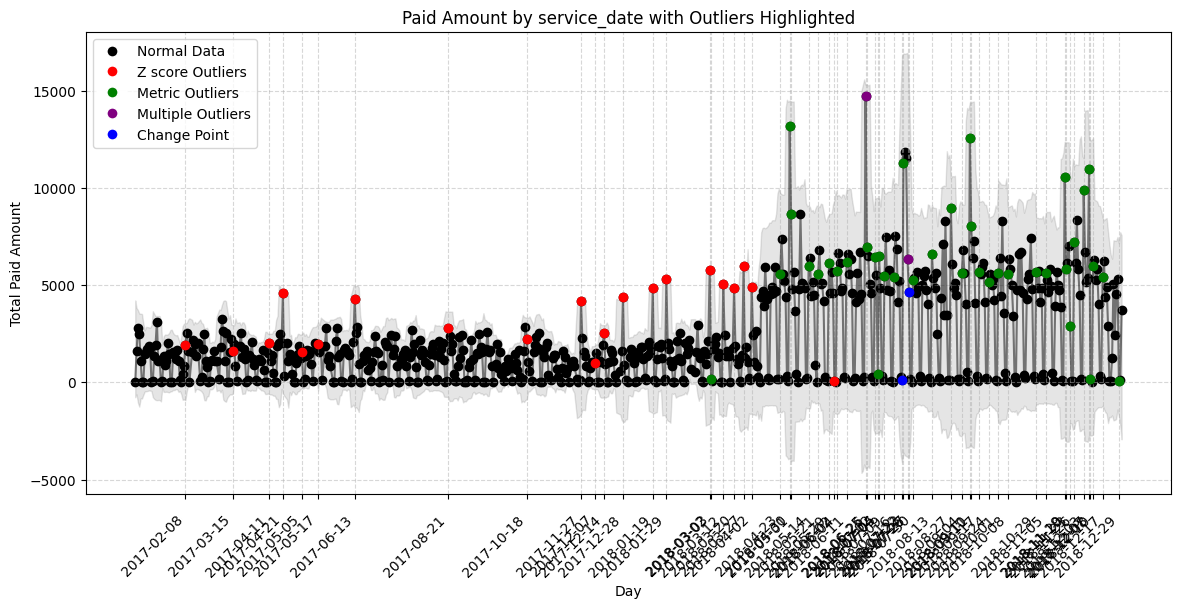
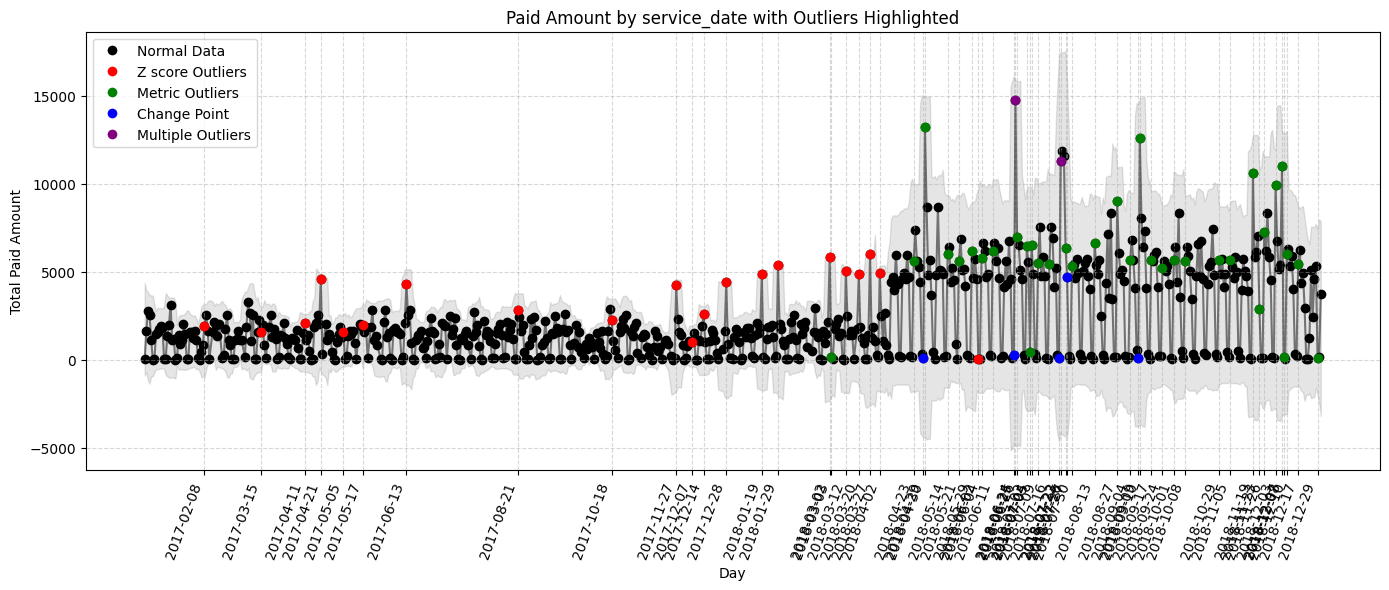
ready for presenting

diff --git a/anomalies.py b/anomalies.py
@@ -29,6 +29,33 @@ pivot_table_df = df.select("betos_cd", "betos_desc", "pos_cd", "pos_desc", "spec
 
 
 
+def preprocess_data():
+    """
+    Perform preprocessing checks on the dataset:
+    - Check for null values.
+    - Check data types.
+    - Save preprocessing results in the 'preprocessing' folder.
+    """
+
+    # Ensure preprocessing folder exists
+    os.makedirs("preprocessing", exist_ok=True)
+
+    # Check for null values
+    null_counts = df.select([spark_sum(col(c).isNull().cast("int")).alias(c) for c in df.columns]).collect()[0].asDict()
+    null_counts_df = pd.DataFrame(list(null_counts.items()), columns=["Column", "Null Count"])
+    
+    # Check data types
+    dtypes = {col_name: dtype for col_name, dtype in df.dtypes}
+    dtypes_df = pd.DataFrame(list(dtypes.items()), columns=["Column", "Data Type"])
+
+    # Save results to CSV files
+    null_counts_df.to_csv("preprocessing/null_counts.csv", index=False)
+    dtypes_df.to_csv("preprocessing/data_types.csv", index=False)
+
+    print("Preprocessing completed. Null counts and data types saved in 'preprocessing' folder.")
+
+
+
 
 def detect_outliers(group_values=None):
     """
@@ -99,12 +126,12 @@ def detect_outliers(group_values=None):
     )
 
     weekly_totals = weekly_totals.withColumn(
-    "mean_next_3",
-    mean("total_metric").over(window_spec.rowsBetween(1, 3))
+    "mean_next_2",
+    mean("total_metric").over(window_spec.rowsBetween(1, 2))
     )
     weekly_totals = weekly_totals.withColumn(
-        "mean_prev_3",
-        mean("total_metric").over(window_spec.rowsBetween(-3, -1))
+        "mean_prev_2",
+        mean("total_metric").over(window_spec.rowsBetween(-2, -1))
     )
 
 
@@ -120,19 +147,19 @@ def detect_outliers(group_values=None):
                                                                                                                                                
     # Anomaly: If total metric is double or half of last week, with a difference of at least 10
     weekly_totals = weekly_totals.withColumn(
-    "mean_next_3",
-    mean("total_metric").over(window_spec.rowsBetween(1, 3))
+    "mean_next_2",
+    mean("total_metric").over(window_spec.rowsBetween(1, 2))
     )
     weekly_totals = weekly_totals.withColumn(
-        "mean_prev_3",
-        mean("total_metric").over(window_spec.rowsBetween(-3, -1))
+        "mean_prev_2",
+        mean("total_metric").over(window_spec.rowsBetween(-2, -1))
     )
     weekly_totals = weekly_totals.withColumn(
     "change_point",
-    (((col("mean_next_3") >= 2 * col("mean_prev_3")) |
-      (col("mean_prev_3") >= 2 * col("mean_next_3"))) & 
-     (spark_abs(col("mean_next_3") - col("mean_prev_3")) > 8000)) & 
-    col("mean_prev_3").isNotNull() & col("mean_next_3").isNotNull()
+    (((col("mean_next_2") >= 2 * col("mean_prev_2")) |
+      (col("mean_prev_2") >= 2 * col("mean_next_2"))) & 
+     (spark_abs(col("mean_next_2") - col("mean_prev_2")) > 8000)) & 
+    col("mean_prev_2").isNotNull() & col("mean_next_2").isNotNull()
 )
     # Final outlier column (if any conditions are met)
     weekly_totals = weekly_totals.withColumn(
@@ -185,19 +212,19 @@ def compute_anomaly_counts():
         )
         
         df_anomalies = df_anomalies.withColumn(
-        "mean_next_3",
+        "mean_next_2",
         mean("total_metric").over(window_spec.rowsBetween(1, 3))
         )
         df_anomalies = df_anomalies.withColumn(
-            "mean_prev_3",
+            "mean_prev_2",
             mean("total_metric").over(window_spec.rowsBetween(-3, -1))
         )
         df_anomalies = df_anomalies.withColumn(
         "change_point",
-        (((col("mean_next_3") >= 2 * col("mean_prev_3")) |
-        (col("mean_prev_3") >= 2 * col("mean_next_3"))) & 
-        (spark_abs(col("mean_next_3") - col("mean_prev_3")) > 8000)) & 
-        col("mean_prev_3").isNotNull() & col("mean_next_3").isNotNull()
+        (((col("mean_next_2") >= 2 * col("mean_prev_2")) |
+        (col("mean_prev_2") >= 2 * col("mean_next_2"))) & 
+        (spark_abs(col("mean_next_2") - col("mean_prev_2")) > 8000)) & 
+        col("mean_prev_2").isNotNull() & col("mean_next_2").isNotNull()
     )
         
         df_anomalies = df_anomalies.withColumn(
@@ -218,8 +245,8 @@ def compute_anomaly_counts():
 
 
 def make_graph(result_df_pd, filtered_summary):
-    result_df_pd['lower_bound'] = result_df_pd['rolling_mean'] - (2.0 * result_df_pd['rolling_std'])
-    result_df_pd['upper_bound'] = result_df_pd['rolling_mean'] + (2.0 * result_df_pd['rolling_std'])
+    result_df_pd['lower_bound'] = result_df_pd['rolling_mean'] - (2.1 * result_df_pd['rolling_std'])
+    result_df_pd['upper_bound'] = result_df_pd['rolling_mean'] + (2.1 * result_df_pd['rolling_std'])
 
     # Initialize figure
     plt.figure(figsize=(14, 6))
@@ -267,7 +294,7 @@ def make_graph(result_df_pd, filtered_summary):
     # Improve X-axis readability by only labeling anomalous weeks
     outlier_ticks = list(filtered_summary.keys())
     
-    plt.xticks(outlier_ticks, rotation=45, ha='right')  # Show only weeks with anomalies
+    plt.xticks(outlier_ticks, rotation=70, ha='right')  # Show only weeks with anomalies
 
     if "week" in time_variable:
         plt.xlabel("Week")
@@ -277,15 +304,9 @@ def make_graph(result_df_pd, filtered_summary):
     plt.title(f"Paid Amount by {time_variable} with Outliers Highlighted")
     plt.legend(handles=legend_handles)
     plt.grid(True, linestyle="--", alpha=0.5)
-
+    plt.tight_layout()
     # Save the plot
     plt.savefig(f"./{time_variable}/outliers.png", bbox_inches='tight')
-
-
-
-
-
-
 
 
 def main():
@@ -294,11 +315,12 @@ def main():
     creates a report indicating the anomalous weeks and why they were flagged
     """
 
+    preprocess_data()
+
     if not test_variables:
         print("No test variables found in config.yml. Exiting.")
         return
     
-    #testing out compute_anomaly_counts():
     anomaly_counts_dict = compute_anomaly_counts()
     
     top_anomalous_values = {
@@ -308,7 +330,6 @@ def main():
     
     print("Top single anomalous values:",top_anomalous_values)
 
-    # Dictionary to hold report data
     outlier_summary = {}
 
     # Generate all possible groupings of the most anomalous values
@@ -316,16 +337,11 @@ def main():
 
     for subset in test_variable_subsets:
         group_values = {var: top_anomalous_values[var] for var in subset if var in top_anomalous_values}
-
         print(group_values)
         # Run detect_outliers with the subset of test variables
         result_df = detect_outliers(group_values)
-
-
         if group_values == {}:
             result_df_pd = result_df.toPandas()
-
-
         # Collect weeks where is_outlier is True
         outliers = result_df.filter(col("is_outlier") == True).collect()
 
@@ -346,8 +362,8 @@ def main():
                     "prev_count": row["prev_num_data_points"],
                     "total_metric": row["total_metric"],
                     "prev_total_metric": row["prev_total_metric"],
-                    "mean_prev_3": row["mean_prev_3"],
-                    "mean_next_3": row["mean_next_3"]
+                    "mean_prev_2": row["mean_prev_2"],
+                    "mean_next_2": row["mean_next_2"]
                 }
 
             if row["is_outlier_z"]:
@@ -360,14 +376,9 @@ def main():
     # Apply filtering to only keep the most specific report
     filtered_summary = {week: filter_anomalies(anomalies) for week, anomalies in outlier_summary.items()}
     make_graph(result_df_pd,filtered_summary)
-
-
-
     filtered_summary = dict(sorted(filtered_summary.items(), key=lambda x: -max(details["total_cost"] for details in x[1].values())))
-    #generate text for the report based on anomaly and data
     report = generate_report(filtered_summary)
 
-    # Save filtered outlier_summary dictionary to a .txt file
     output_file = f"./{time_variable}/outliers_summary.txt"
     with open(output_file, "w") as f:
         f.write(report)
@@ -444,8 +455,8 @@ def generate_report(filtered_summary):
     report_lines.append("")
     report_lines.append("Anomaly Types:")
     report_lines.append("  - Metric Anomaly: The week's total cost doubled or halved from the previous week.")
-    report_lines.append("  - Z-Score Anomaly: The total cost for the week was over or under the rolling mean (over 7 time periods) by more than 2 standard deviations.")
-    report_lines.append("  - Change Points: The mean of the next two values is double the mean of the two previous values. Shows a significant change in data")
+    report_lines.append("  - Z-Score Anomaly: The total cost for the week was over or under the rolling mean (over 7 time periods) by more than 2.1 standard deviations.")
+    report_lines.append("  - Change Points: Significant change in data (the mean double/halved over a month)")
     report_lines.append("=" * 50)
     report_lines.append("\n")
 
@@ -472,10 +483,14 @@ def generate_report(filtered_summary):
                 report_lines.append(f"  - Previous Week Cost: ${details['prev_total_metric']:.2f}")
 
             if "change" in details["anomaly_type"]:
+                if "week" in time_variable:
+                    time = "Weeks"
+                elif "date" in time_variable:
+                    time = "Days"
                 report_lines.append("Change Point:")
                 report_lines.append(f"  - Total Cost: ${details['total_metric']:.2f}")
-                report_lines.append(f"  - Previous Two Weeks Average Cost: ${details['mean_prev_3']:.2f}")
-                report_lines.append(f"  - Next Two Weeks Average Cost: ${details['mean_next_3']:.2f}")
+                report_lines.append(f"  - Previous Two {time} Average Cost: ${details['mean_prev_2']:.2f}")
+                report_lines.append(f"  - Next Two {time} Average Cost: ${details['mean_next_2']:.2f}")
                
 
             if "z_score" in details["anomaly_type"]:
